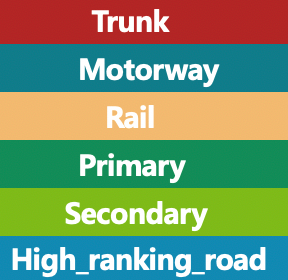
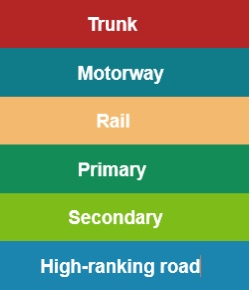
最终版20210419

diff --git a/src/components/cityList.vue b/src/components/cityList.vue
@@ -4,19 +4,19 @@
         <Submenu name="stateNetwork">
             <template slot="title">
                 <van-icon name="location" />
-                Network of States
+                Multimodal network
             </template>
             <Submenu :name="index" v-for="(item, index) in stateName" :key="index">
                 <template slot="title">
                   <van-icon name="location-o" v-if="nowState == item" />
                   {{item}}
                 </template>
-                <MenuItem :name="item+1"><div @click="addNetwork(item,'rail')">rail</div></MenuItem>
-                <MenuItem :name="item+2"><div @click="addNetwork(item,'motorway')">motorway</div></MenuItem>
-                <MenuItem :name="item+3"><div @click="addNetwork(item,'primary')">primary</div></MenuItem>
-                <MenuItem :name="item+4"><div @click="addNetwork(item,'secondary')">secondary</div></MenuItem>
-                <MenuItem :name="item+5"><div @click="addNetwork(item,'trunk')">trunk</div></MenuItem>
-                <MenuItem :name="item+6"><div @click="addNetwork(item,'high_ranking_road')">High_Ranking_Road</div></MenuItem>
+                <MenuItem :name="item+1"><div @click="addNetwork(item,'rail')">Rail</div></MenuItem>
+                <MenuItem :name="item+2"><div @click="addNetwork(item,'motorway')">Motorway</div></MenuItem>
+                <MenuItem :name="item+3"><div @click="addNetwork(item,'primary')">Primary</div></MenuItem>
+                <MenuItem :name="item+4"><div @click="addNetwork(item,'secondary')">Secondary</div></MenuItem>
+                <MenuItem :name="item+5"><div @click="addNetwork(item,'trunk')">Trunk</div></MenuItem>
+                <MenuItem :name="item+6"><div @click="addNetwork(item,'high_ranking_road')">High-ranking road</div></MenuItem>
             </Submenu>
         </Submenu>
         <Submenu name="gmns">
@@ -79,10 +79,8 @@ export default {
       vectorLayer: '',
       agent1Layer: '',
       agent2Layer: '',
-      //当前点击的state
       nowState: 'Alabama',
       single: false,
-      //复选框的状态
       agent1: false,
       agent2: false,
       macronet: false,
@@ -95,7 +93,6 @@ export default {
   mounted() {
     this.addNetwork('Alabama','rail');
   },
-  //监听复选框的状态
   watch: {
     macronet: function(newData,oldData) {
       if(newData == true) {
@@ -155,7 +152,6 @@ export default {
   methods: {
     addNetwork(item,type) {
       this.nowState = item;
-      //解决如果网络多选框没关就点击state的路网导致多选框还存在的问题
       if(item !== "Net1" && item !== "Net2" && item !== "Net3" && item !== "Agent1" && item !== "Agent2") {
         this.micronet = false;
         this.mesonet = false;
@@ -167,9 +163,7 @@ export default {
         url: baseUrl,
       }).then( (response) => {
       // console.log(this.map.map.getLayers())
-      //先移除上一个图层  
       this.map.map.removeLayer(this.vectorLayer);
-      //根据不同的地区设置不同的zoom层级
       let zoomLevel = 8;
       switch(item) {
         case 'Net1':
@@ -193,7 +187,6 @@ export default {
         default: 
           zoomLevel = 8;
       };
-      //网络的颜色
       var net_color = 'rgba(153,48,124)';
       switch(type) {
         case 'rail':

diff --git a/src/components/indexPage.vue b/src/components/indexPage.vue
@@ -3,9 +3,10 @@
     <div id="header">
       <img id="logo" src="@/assets/image/logo.svg">
       <!-- <img id="list" src="@/assets/image/list.svg" @click="value = true"> -->
-      <h2 id="labLabel">ASU Trans+AL Lab</h2>
+      <h2 id="labLabel">ASU Trans+AI Lab</h2>
       <img id="changeLayer" src="@/assets/image/integral.svg" @click="openModal">
       <a href="https://github.com/asu-trans-ai-lab"><img id="git" src="@/assets/image/github.svg"></a>
+      <a href="https://github.com/asu-trans-ai-lab/integrated_modeling_GMNS/tree/main/examples/United_States_network"><img id="data" src="@/assets/image/data.svg"></a>
     </div>
     <aside class="sidebar">
       <div class="sidebar-nav">
@@ -54,7 +55,6 @@ export default {
     }
   },
   methods: {
-    //打开图层选择modal
     openModal() {
       this.$store.commit('isLayerModal')
     }
@@ -84,8 +84,8 @@ export default {
   position: fixed;
   right: 20px;
   bottom: 40px;
-  width: 100px;
-  height: 170px;
+  width: 161px;
+  height: 189px;
 }
 .sidebar {
     padding-top: 0;
@@ -164,6 +164,13 @@ section {
   top: 8px;
   align-self: center;
   width: 2rem;
+}
+#data {
+  position: fixed;
+  right: 120px;
+  top: 13px;
+  align-self: center;
+  width: 1.5rem;
 }
 #changeLayer {
   position: fixed;

diff --git a/src/utils/layers.js b/src/utils/layers.js
@@ -1,4 +1,4 @@
-//图层管理和创建
+
 import TileLayer from "ol/layer/Tile";
 import OSM from "ol/source/OSM";
 import BingMaps from "ol/source/BingMaps";
@@ -8,11 +8,9 @@ import BingMaps from "ol/source/BingMaps";
 export default {
   osmTitleLayer: new TileLayer({
     source: new OSM(),
-    //默认显示osm图层
     visible: true
   }),
   bingTitleLayer: new TileLayer({                 
-    // Bing Map图层
     source: new BingMaps({
[1 lines of base64/hex data omitted]
     imagerySet: 'Aerial'

diff --git a/src/components/layerModal.vue b/src/components/layerModal.vue
@@ -34,13 +34,11 @@ import layers from "@/utils/layers.js"
         },
         methods: {
             ok () {
-                //modal框的state中的布尔值为false
                 this.$store.commit('notLayerModal');
             },
             cancel () {
                 this.$store.commit('notLayerModal')
             },
-            //图层切换操作
             changeLayer() {
               switch(this.mapSource) {
                 case 'bing':

diff --git a/src/utils/map.js b/src/utils/map.js
@@ -15,14 +15,13 @@ export default {
     target: obj.target,
     layers: this.layers,
     view: new View({
-      projection: "EPSG:4326",    //使用这个坐标系
+      projection: "EPSG:4326",    
       center: obj.center,
       zoom: obj.zoom
     }),
   });
     this.map = map;
   },
-  //定义添加titleLayer的方法，可以在全局进行添加
   addTitleLayer(layer) {
     this.map.addLayer(layer)
   },

diff --git a/src/components/osmMap.vue b/src/components/osmMap.vue
@@ -16,7 +16,6 @@ export default {
   methods: {
     initMap() {
       this.map.initialMap(this.map.obj);
-      //添加全屏控件
       let fullscreen = new FullScreen();
       this.map.map.addControl(fullscreen);
       function onClick(id, callback) {
@@ -32,7 +31,6 @@ export default {
 
 <style>
 #map{height:100%;}
-/*隐藏ol的一些自带元素*/
 .ol-attribution,.ol-zoom { display: none;}
 
 </style>

diff --git a/vue.config.js b/vue.config.js
@@ -1,7 +1,6 @@
 
 module.exports = {
-  // 基本路径
   publicPath:  process.env.NODE_ENV === 'production'
   ? '/pagetest/'
-  : './',  // 可以设置成相对路径，这样所有的资源都会被链接为相对路径，打出来的包可以被部署在任意路径
+  : './',  
 }

diff --git a/src/main.js b/src/main.js
@@ -15,7 +15,7 @@ Vue.config.productionTip = false
 Vue.use(ViewUI);
 Vue.use(Vant);
 Vue.prototype.map = map;
-Vue.prototype.$axios = axios;    //全局注册，使用方法为:this.$axios
+Vue.prototype.$axios = axios;    
 
 
 /* eslint-disable no-new */

diff --git a/src/store/index.js b/src/store/index.js
@@ -4,7 +4,6 @@ import Vuex from "vuex"
 Vue.use(Vuex)
 const store = new Vuex.Store({
   state: {
-    //控制切换图层的弹窗
     ifLayerModal: false
   },
   mutations: {
